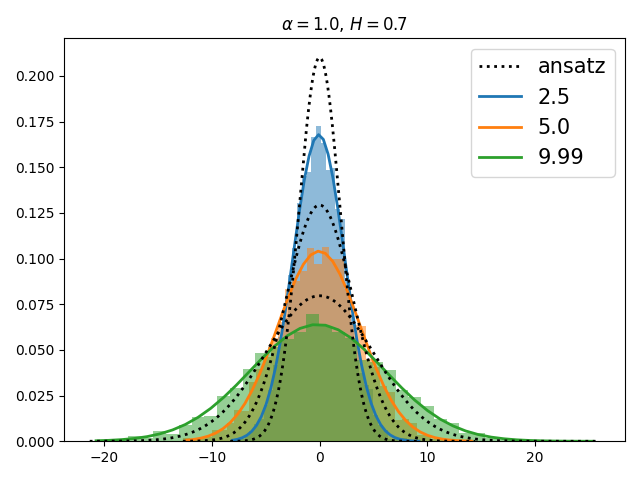
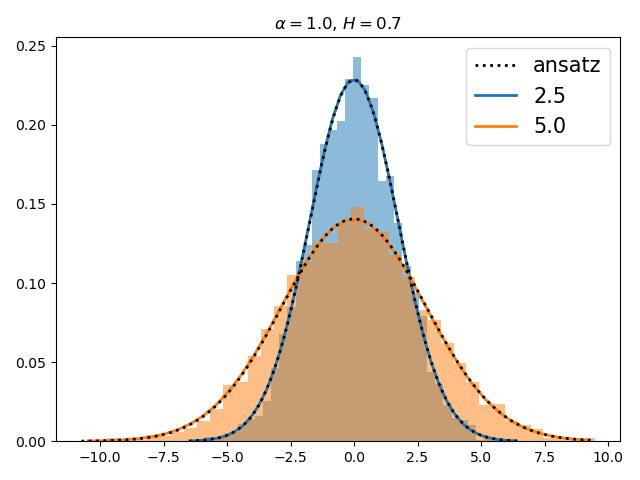
tests for Calvo's  fBm

diff --git a/src/plotting.py b/src/plotting.py
@@ -47,6 +47,11 @@ def phi_fBm_propagator_ansatz(phi, time, H, phi0=0):
     
     return factor*np.exp(argument)
 
+def phi_fBm_propagator_calvo(phi, time, H, phi0=0):
+    
+    
+    return (np.sqrt(H/np.pi)) * (gamma(H+1/2)/(time**H)) * np.exp(-H*((gamma(H+1/2)*(phi-phi0)/(time**(H)))**2))
+
 def phi_msd(time, alpha):
     # msd_anl = ((gamma(2*H)**2)/(H*(gamma(H+1/2)**2)))*time**(alpha)
     return (2/gamma(alpha+1))*time**(alpha)
@@ -168,7 +173,8 @@ def plot_pdf(ax, env, time):
     # Ansatz
     phi_range = np.arange(np.min(trajectories_points), np.max(trajectories_points), 1e-3)
     # propagator = phi_propagator_ansatz(phi_range, time*env.h, env.alpha)
-    propagator = phi_fBm_propagator_ansatz(phi_range, time*env.h, env.H)
+    # propagator = phi_fBm_propagator_ansatz(phi_range, time*env.h, env.H)
+    propagator = phi_fBm_propagator_calvo(phi_range, time*env.h, env.H)
     label = None
     if time == int(env.Tf/(4*env.h)):
         label = 'ansatz'

diff --git a/scripts/plot_phi_alpha1.py b/scripts/plot_phi_alpha1.py
@@ -7,7 +7,7 @@ import utilities
 
 alphas = [1.]
 # H = None
-Hs = [0.3,  0.7]
+Hs = [0.3, 0.5, 0.7]
 realizations = 1000
 Tf = 10.
 h = 0.01
@@ -49,7 +49,7 @@ for alpha_index, alpha in enumerate(alphas):
         fig4, ax4 = plt.subplots()
         plotting.plot_pdf(ax4, env, time = int(Tf/(4*h)))
         plotting.plot_pdf(ax4, env, time = int(Tf/(2*h)))
-        plotting.plot_pdf(ax4, env, time = int((Tf/h)-1))
+        #plotting.plot_pdf(ax4, env, time = int((Tf/h)-1))
         fig4.tight_layout()
         fig4.savefig(f"plots/pdf/phipdf_r_{env.realizations}_Tf_{Tf}_h_{h}_alpha_{env.alpha}_H_{env.H}.png", dpi=100)
 

diff --git a/src/world.py b/src/world.py
@@ -37,7 +37,7 @@ class angular_fbm():
         # Noise amplitude
         if self.alpha == 1:
             self.A_H = 1#/np.sqrt(2)
-            self.A_H = 1/np.sqrt(H*(2*H-1)*gamma(2*H-1))
+            self.A_H = 1/(np.sqrt(2*H)*gamma(H+1/2))
 
         else:
             self.A_H = 1/np.sqrt(H*(2*H-1)*gamma(2*H-1))
